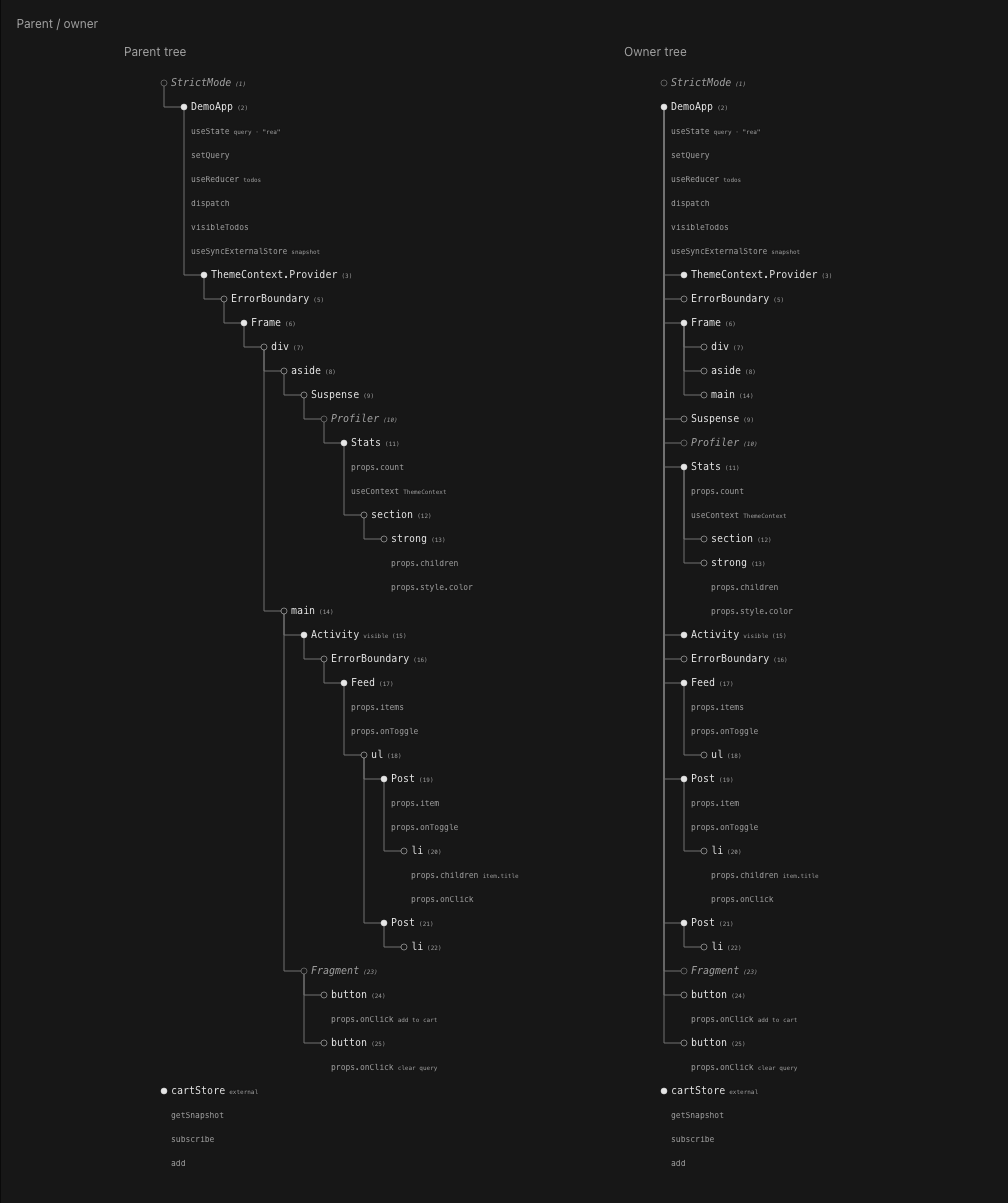
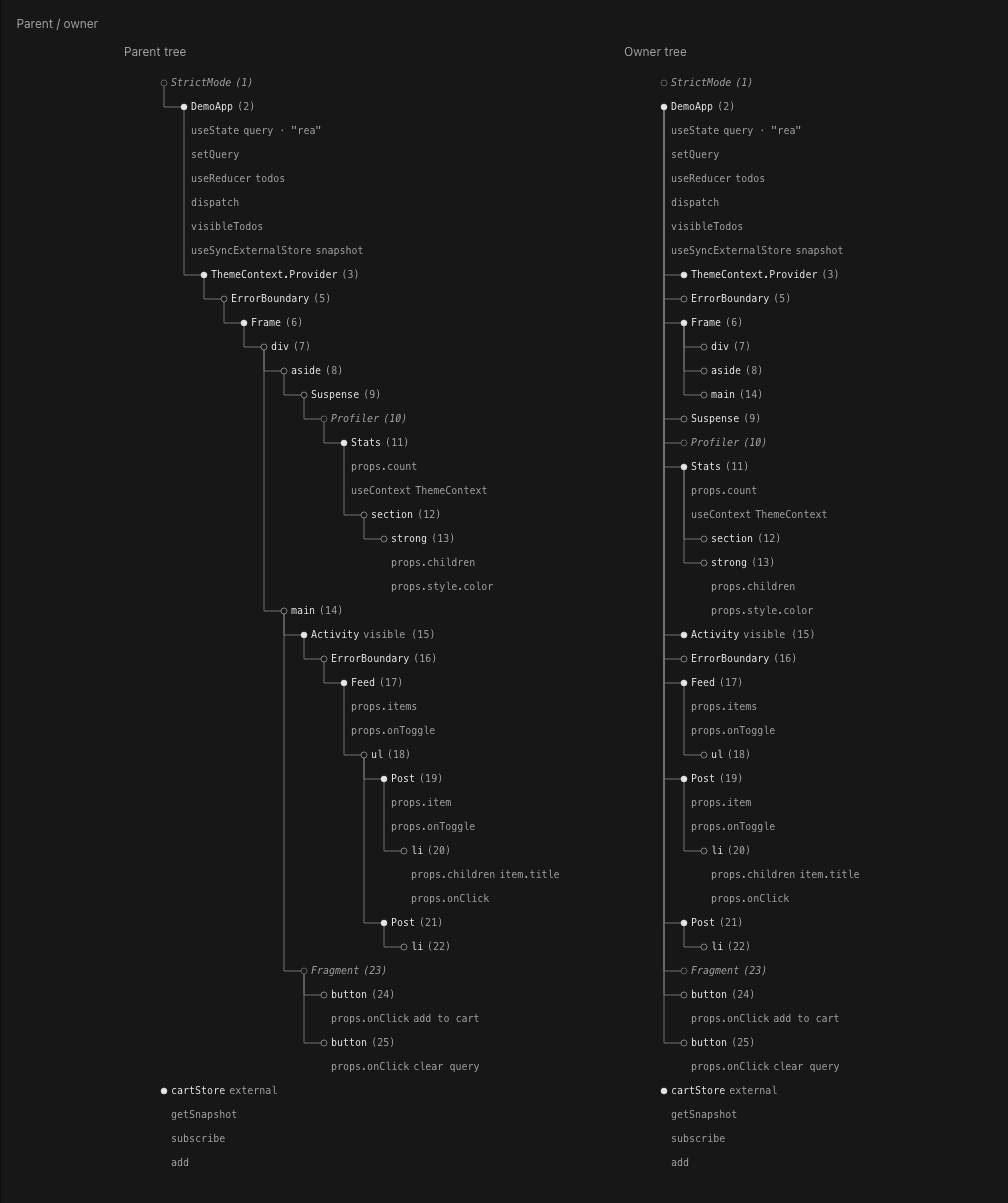
fix(diagram): use one text size across diagram content

diff --git a/packages/diagram/tests/board.spec.ts b/packages/diagram/tests/board.spec.ts
@@ -39,13 +39,11 @@ test("keeps SVG typography and geometry at native size", async ({ page }) => {
     expect(size.height).toBe(size.expectedHeight);
   }
   const fontSizes = await page
-    .locator('[data-node-variant="node"] > text')
+    .locator(
+      "[data-node-id] text, [data-node-id] tspan, [data-edge-from] text, [data-scope-kind] text",
+    )
     .evaluateAll((elements) => elements.map((element) => getComputedStyle(element).fontSize));
   expect(new Set(fontSizes)).toEqual(new Set([`${diagramMetrics.fontSize}px`]));
-  const detailSizes = await page
-    .locator('[data-node-variant="detail"] > text')
-    .evaluateAll((elements) => elements.map((element) => getComputedStyle(element).fontSize));
-  expect(new Set(detailSizes)).toEqual(new Set([`${diagramMetrics.detailFontSize}px`]));
   await page.setViewportSize({ width: 390, height: 844 });
   expect(await page.evaluate(() => document.documentElement.scrollWidth > window.innerWidth)).toBe(
     false,
@@ -182,9 +180,7 @@ test("shares compact node, text, connector, and arc rules throughout the system"
   for (const style of styles) {
     expect(style.paintOrder).toBe("stroke");
     expect(style.strokeWidth).toBe("2px");
-    expect([`${diagramMetrics.fontSize}px`, `${diagramMetrics.detailFontSize}px`]).toContain(
-      style.fontSize,
-    );
+    expect(style.fontSize).toBe(`${diagramMetrics.fontSize}px`);
   }
   const staticConnector = page.locator("#edge-parent [data-edge-from] > path");
   const virtualConnector = page.locator("#deep-tree [data-connector]").first();

diff --git a/packages/diagram/src/diagram/primitives.tsx b/packages/diagram/src/diagram/primitives.tsx
@@ -183,7 +183,7 @@ export const DiagramNode = ({
     kind === "suspense" ||
     (kind === "boundary" && diagramInteraction?.activeId !== node.id);
   const isDetail = variant === "detail";
-  const fontSize = isDetail ? diagramMetrics.detailFontSize : diagramMetrics.fontSize;
+  const fontSize = diagramMetrics.fontSize;
   const labelOffset = isDetail ? 0 : diagramMetrics.labelOffset;
   const characterWidth = fontSize * 0.61;
   const characters = Array.from(node.label);
@@ -207,8 +207,8 @@ export const DiagramNode = ({
     isDisabled && styles.disabled,
   );
   const context = useMemo(
-    () => ({ labelId, descriptionId, label, annotation, isDetail, labelOffset }),
-    [labelId, descriptionId, label, annotation, isDetail, labelOffset],
+    () => ({ labelId, descriptionId, label, annotation, labelOffset }),
+    [labelId, descriptionId, label, annotation, labelOffset],
   );
   return (
     <NodeContext value={context}>

diff --git a/packages/diagram/tests/dataflow-visual.spec.ts b/packages/diagram/tests/dataflow-visual.spec.ts
@@ -59,9 +59,7 @@ test("keeps inline data neutral, uses one active accent, and preserves arrow cle
     const positions = await parent
       .locator('[data-edge-id="store-subscribe"] > text, [data-edge-id="snapshot-changed"] > text')
       .evaluateAll((elements) => elements.map((element) => Number(element.getAttribute("y"))));
-    expect(Math.abs(positions[0] - positions[1])).toBeGreaterThan(
-      diagramMetrics.annotationFontSize,
-    );
+    expect(Math.abs(positions[0] - positions[1])).toBeGreaterThan(diagramMetrics.fontSize);
     await page
       .locator("#parent-tree")
       .screenshot({ path: `test-results/tree-dataflow-${theme}.png` });

diff --git a/packages/diagram/src/diagram/geometry.ts b/packages/diagram/src/diagram/geometry.ts
@@ -3,10 +3,8 @@ export const diagramMetrics = {
   indent: 20,
   nodeRadius: 3,
   fontSize: 10,
-  detailFontSize: 8,
   detailRowHeight: 24,
   detailPortGap: 4,
-  annotationFontSize: 6,
   labelOffset: 7,
   strokeWidth: 0.5,
   arrowGap: 3,
@@ -27,7 +25,7 @@ export const getLabelWidth = ({
 }: DiagramLabel) =>
   Array.from(label).length * fontSize * 0.61 +
   labelOffset +
-  (annotation ? Array.from(annotation).length * diagramMetrics.annotationFontSize * 0.61 + 4 : 0);
+  (annotation ? Array.from(annotation).length * fontSize * 0.61 + 4 : 0);
 
 export interface Point {
   x: number;

diff --git a/packages/diagram/src/diagram/tree-edges.tsx b/packages/diagram/src/diagram/tree-edges.tsx
@@ -122,7 +122,7 @@ export const TreeEdges = (props: TreeEdgesProps) => {
                 }
                 labelPosition={{
                   ...labelPosition,
-                  y: labelPosition.y + lane * (diagramMetrics.annotationFontSize * 2 + 2),
+                  y: labelPosition.y + lane * (diagramMetrics.fontSize * 2 + 2),
                 }}
               />
             );

diff --git a/packages/diagram/src/diagram/node-slots.tsx b/packages/diagram/src/diagram/node-slots.tsx
@@ -19,7 +19,7 @@ export const DiagramLabel = ({ children, ...props }: DiagramLabelProps) => {
           x: context.labelOffset,
           dy: "0.32em",
           "data-slot": "diagram-label",
-          ...stylex.props(drawing.label, context.isDetail && drawing.detail),
+          ...stylex.props(drawing.label),
         },
         props,
       )}

diff --git a/packages/diagram/src/diagram/drawing.stylex.ts b/packages/diagram/src/diagram/drawing.stylex.ts
@@ -18,10 +18,9 @@ export const drawing = stylex.create({
     strokeWidth: 2,
     paintOrder: "stroke",
   },
-  detail: { fontSize: typography.detail },
   annotation: {
     fontFamily: fonts.mono,
-    fontSize: typography.annotation,
+    fontSize: typography.label,
     fill: colors.muted,
     stroke: colors.surface,
     strokeWidth: 2,

diff --git a/packages/diagram/src/diagram/tokens.stylex.ts b/packages/diagram/src/diagram/tokens.stylex.ts
@@ -40,6 +40,4 @@ export const darkTheme = stylex.createTheme(colors, {
 
 export const typography = stylex.defineConsts({
   label: "10px",
-  detail: "8px",
-  annotation: "6px",
 });

diff --git a/packages/diagram/src/diagram/node-context.ts b/packages/diagram/src/diagram/node-context.ts
@@ -7,7 +7,6 @@ export interface NodeContextValue {
   descriptionId: string;
   label: string;
   annotation?: string;
-  isDetail: boolean;
   labelOffset: number;
 }
 

diff --git a/packages/diagram/README.md b/packages/diagram/README.md
@@ -79,7 +79,7 @@ Model indexing, highlighting, and geometry remain pure TypeScript modules. `tree
 - `DataflowDiagram`: directed hook, value, prop, callback, context, and external-store graphs.
 - `VirtualTree`: fixed-row windowing, adaptive indentation, collapse/expand, and keyboard navigation.
 
-Component rows share a 24px grid, 20px maximum indent, 10px labels, 3px node radius, 0.5px node outlines, and 1px connectors. Data details also use 24px targets, with muted 8px text aligned with their component label rather than another tree level. The virtualized tree renders the same SVG node component rather than a separate HTML row design. Parent and owner compositions are derived from one model.
+Component rows share a 24px grid, 20px maximum indent, 10px labels, 3px node radius, 0.5px node outlines, and 1px connectors. Labels, details, annotations, and edge labels use the same 10px text size. Data details retain 24px targets, muted color, and alignment with their component label rather than another tree level. The virtualized tree renders the same SVG node component rather than a separate HTML row design. Parent and owner compositions are derived from one model.
 
 Hover and keyboard focus emphasize relevant nodes and connections in blue. Unrelated elements remain neutral and fully opaque rather than losing contrast. In linked trees, owner focus shows direct creations in the parent view and the ownership subtree in the owner view. Boundary focus shows catch regions, including nested boundary nodes but excluding their contents. Blue context scopes only appear while their provider is active. Pointer exit restores the diagram. Virtual rows have continuous full-height, full-width hitboxes: the label, node, whitespace, and expand control share one hover target. There are no selection boxes or persistent row backgrounds.
 
